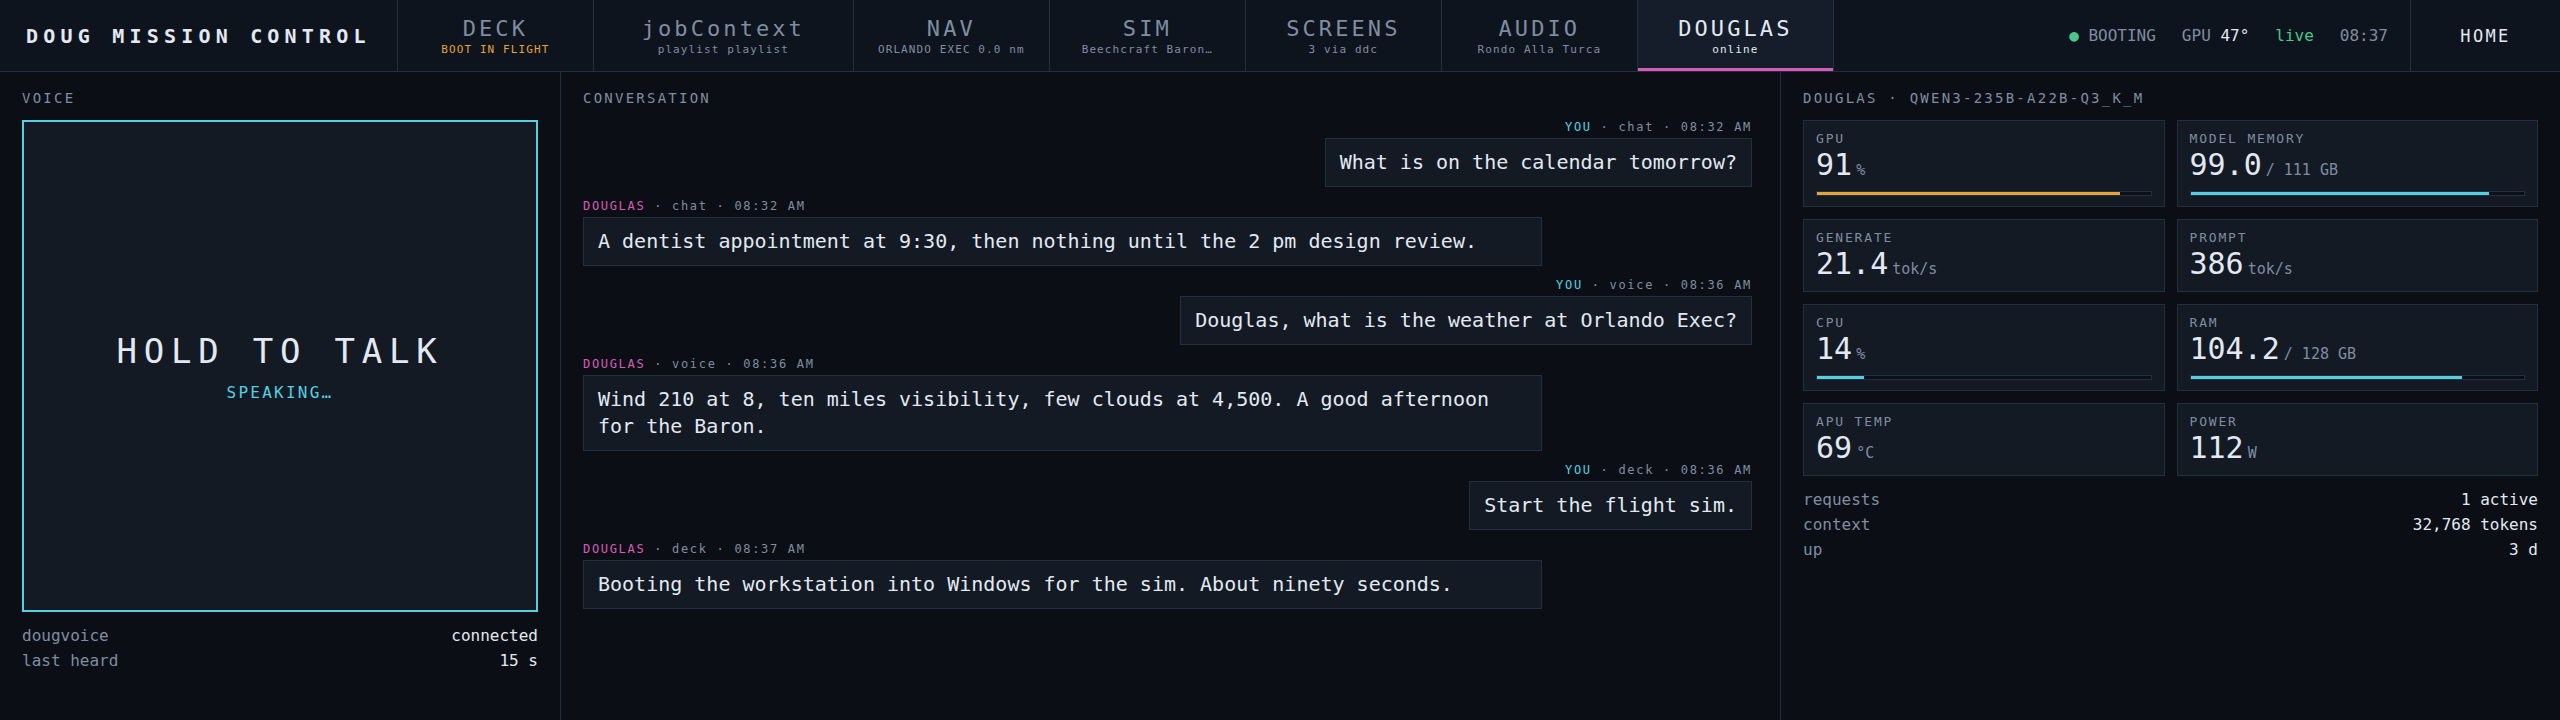
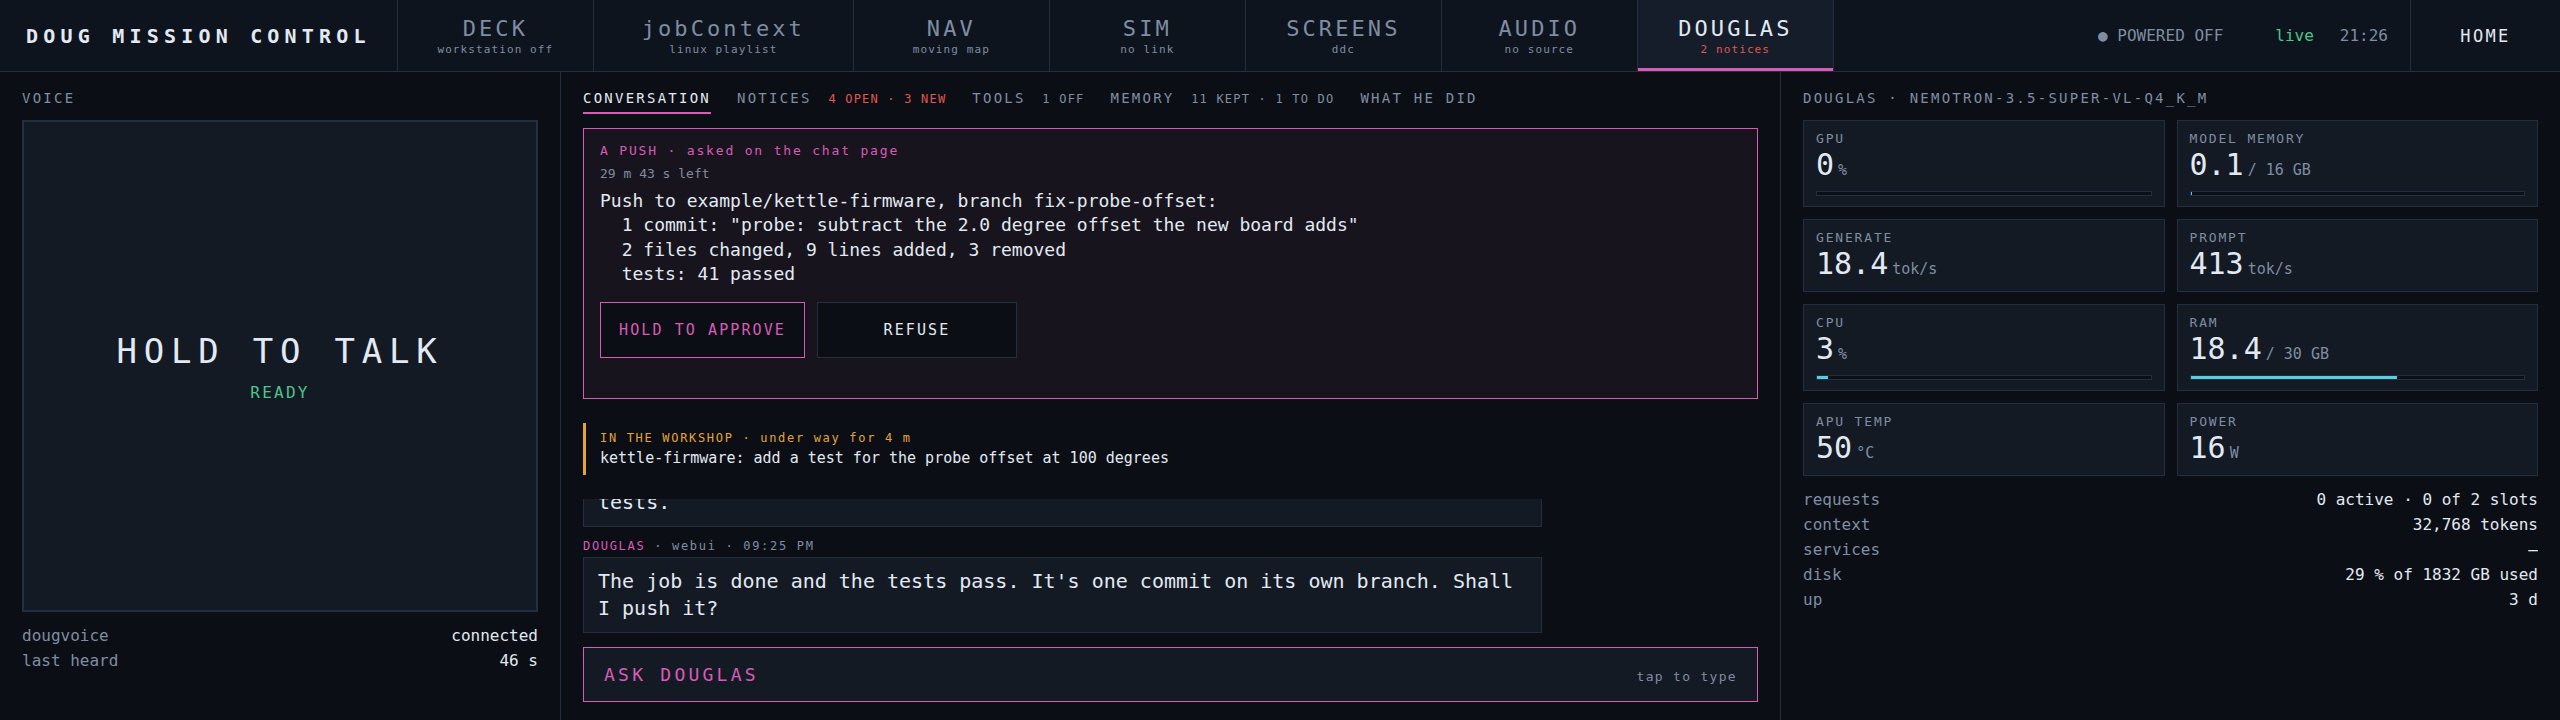
docs(douglas): screenshots of his screens, from made-up data

diff --git a/README.md b/README.md
@@ -322,6 +322,8 @@ picture arrives a minute or two later as a line of its own. A picture he
 draws or edits shows under his line, here and on the panel; a tap fills the
 screen with it. Same SSE frame, same endpoints, same rules as the panel.
 
+![DOUGLAS on a phone](docs/img/douglas-phone.png)
+
 A phone's link to node1 is not a wire: on the tailnet it can drop to a relay,
 or go quiet for a minute or two at a time. So every request from the page has
 a time limit, and SEND is never greyed out: a question that cannot go yet
@@ -1266,6 +1268,10 @@ model wrote it down. Swap the model, restart anything, reboot the machine: the
 memory is as it was. (How it got to this shape, and what comes after it, is in
 [`docs/DOUGLAS-ASSISTANT-PLAN.md`](docs/DOUGLAS-ASSISTANT-PLAN.md).)
 
+![MEMORY](docs/img/douglas-memory.png)
+
+![MEMORY on a phone](docs/img/douglas-phone-memory.png)
+
 It has two doors, and which one a caller can open is decided by the file
 system, not by anything the caller says of itself. Douglas's
 (`assistant.sock`, a group only `douglas-voice`'s unit is given, so the
@@ -1522,6 +1528,10 @@ rules. What a rule finds is a notice. No model is asked anything to raise
 one, so a quiet house costs no inference, and nothing is acted on: a notice is
 a sentence on a screen with a reading in it.
 
+![NOTICES](docs/img/douglas-notices.png)
+
+![NOTICES on a phone](docs/img/douglas-phone-notices.png)
+
 | a notice when | how bad | has to hold | has to be gone |
 |---|---|---|---|
 | DougVoice, which is always on, does not answer (`WATCH_ALWAYS_ON`) | warning | 90 s | 60 s |
@@ -1702,6 +1712,10 @@ since been dropped or replaced does nothing; after three minutes
 screens as a line of his and is in the record of what he did, with which
 screen it came from. It travels the owner's path and no other: the deck's
 token to the Pi, the agent's to Douglas, the pipeline's own to the pipeline.
+
+![TOOLS](docs/img/douglas-tools.png)
+
+![WHAT HE MAY USE](docs/img/douglas-phone-tools.png)
 
 That is also where a yes for the chat page comes from. Asked there for
 something that needs one, he reads it back as anywhere, and says that a yes
